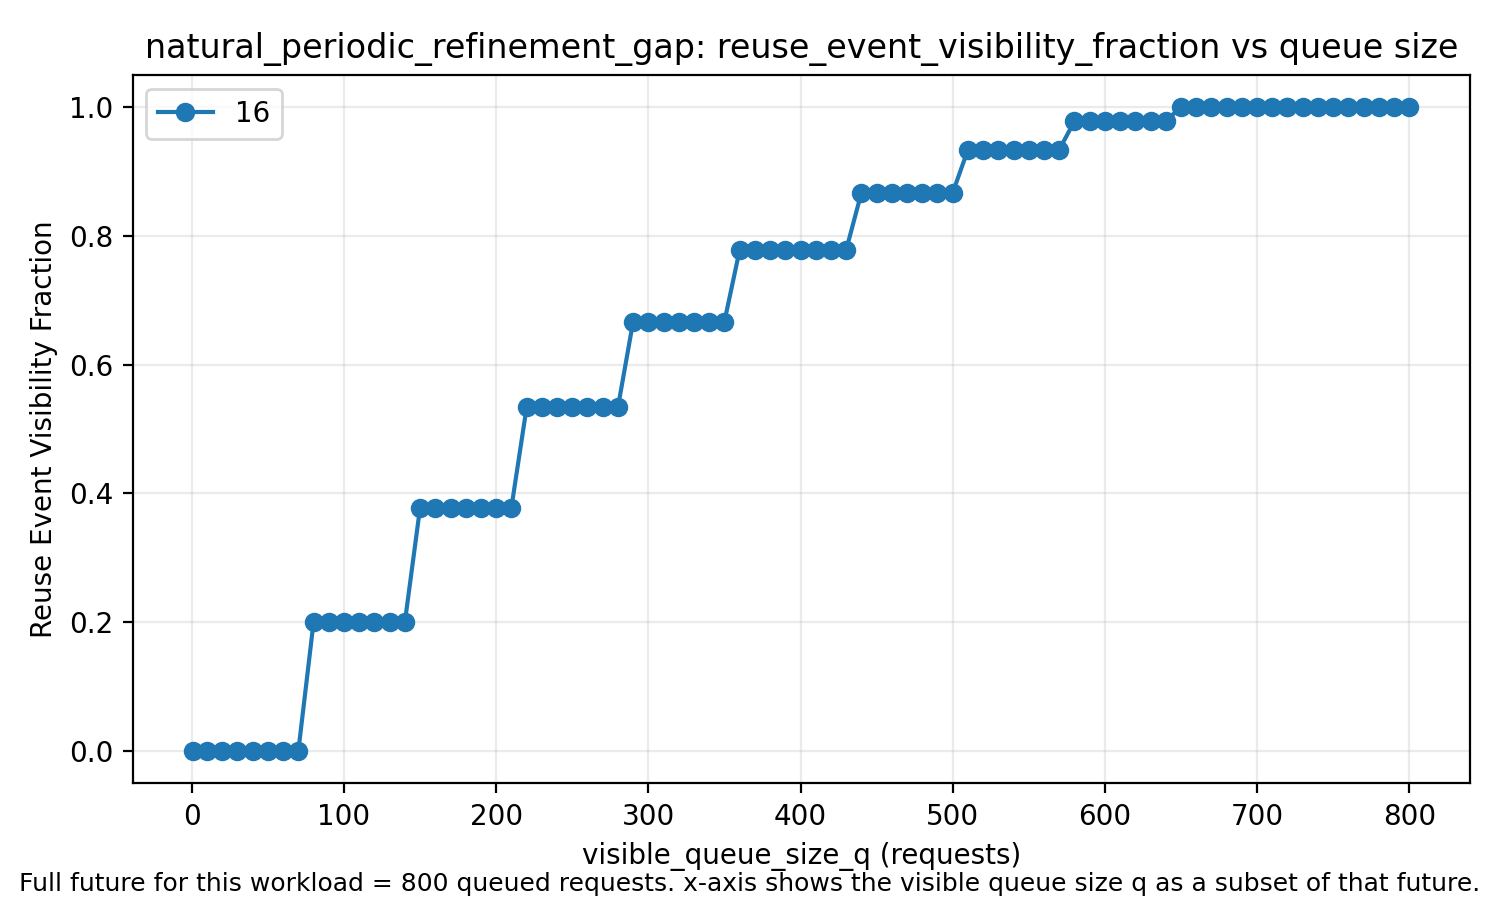
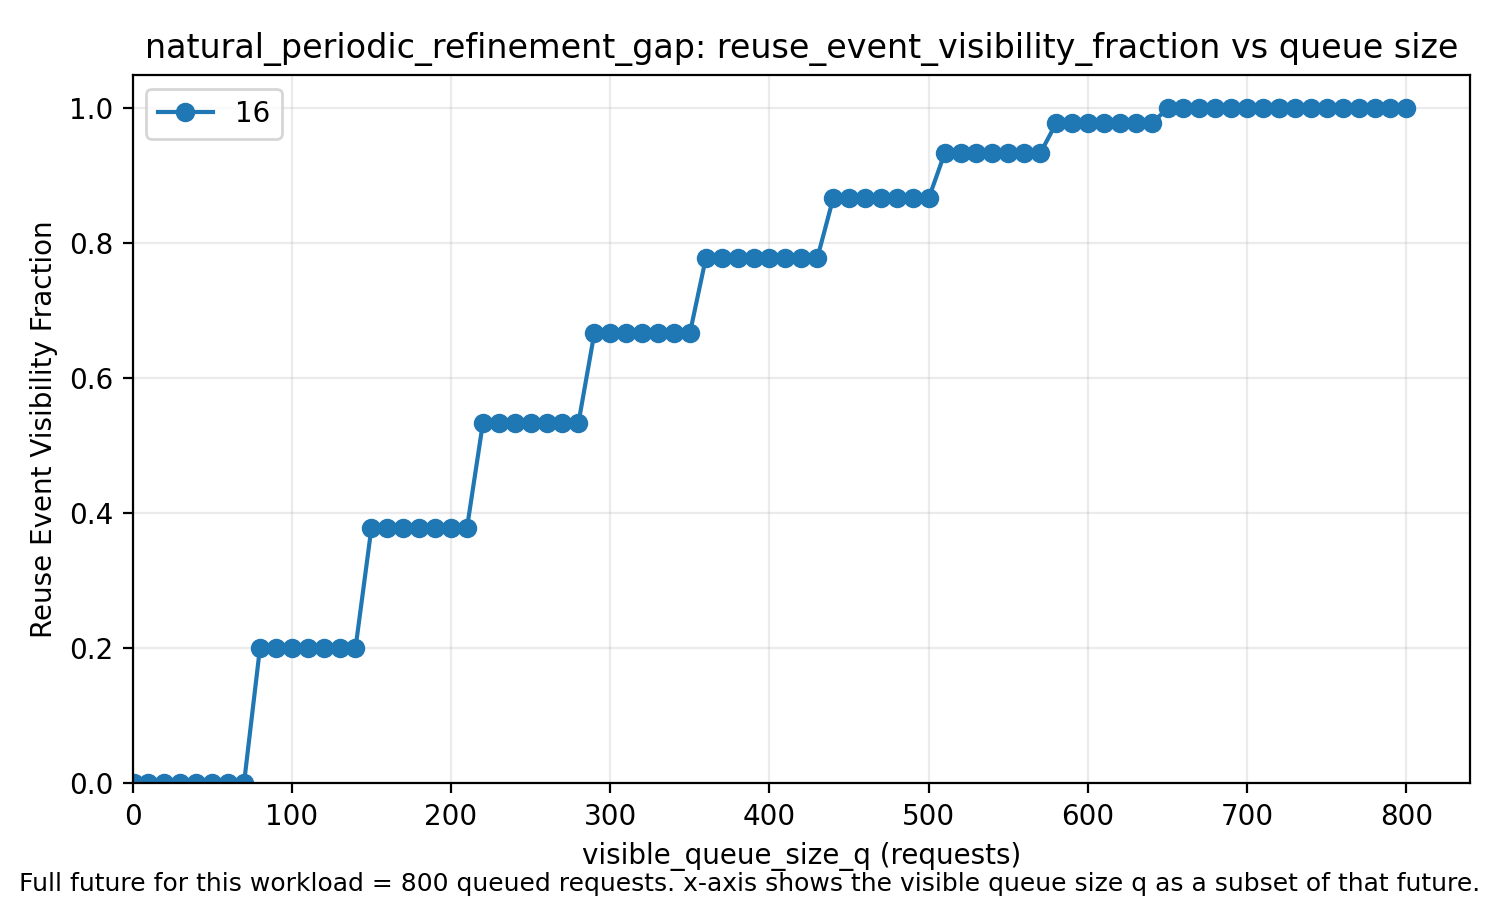
Update study specs and zero-base plots

diff --git a/benchmarking/analysis_scripts/headroom_plot_common.py b/benchmarking/analysis_scripts/headroom_plot_common.py
@@ -80,6 +80,8 @@ def plot_lines(
     plt.ylabel(ylabel)
     plt.grid(alpha=0.25)
     plt.legend()
+    plt.xlim(left=0)
+    plt.ylim(bottom=0)
     if note_text:
         plt.figtext(0.5, 0.01, note_text, ha="center", fontsize=9)
     plt.tight_layout()
@@ -129,6 +131,7 @@ def plot_grouped_bars(
     plt.ylabel(ylabel)
     plt.grid(axis="y", alpha=0.25)
     plt.legend()
+    plt.ylim(bottom=0)
     plt.tight_layout()
     plt.savefig(output_path, dpi=200)
     plt.close()

diff --git a/studies/specs/queue_information_visibility/EXPERIMENT.md b/studies/specs/queue_information_visibility/EXPERIMENT.md
@@ -22,6 +22,17 @@ That makes it a clean headroom study for future directions such as:
 - queue-aware admission / retention
 - queue-aware scheduling
 
+## Current Canonical Result Bundle
+
+The current synced full run for this study is:
+
+- [queue_information_visibility_full_current](/Users/tejguntuku/TEJ/CS_Independent_Research/kv_cache_research/studies/results/queue_information_visibility_full_current)
+
+Key result tables:
+
+- [visibility_metrics.csv](/Users/tejguntuku/TEJ/CS_Independent_Research/kv_cache_research/studies/results/queue_information_visibility_full_current/metrics/visibility_metrics.csv)
+- [threshold_summary.csv](/Users/tejguntuku/TEJ/CS_Independent_Research/kv_cache_research/studies/results/queue_information_visibility_full_current/metrics/threshold_summary.csv)
+
 ## Core Idea
 
 At request position `i`, define the visible queue as:
@@ -63,6 +74,17 @@ Why:
 - they already produce very different reuse structures
 - they are already familiar from the earlier residency / eviction studies
 - they let us see whether queue visibility is workload-dependent
+
+Workload interpretation:
+
+- `natural_tenant_rotation_gap` creates reuse that is clustered by tenant-style families, with sizable gaps before the same family reappears
+- `natural_periodic_refinement_gap` creates periodic revisits to a shared evolving prompt, so the queue may reveal different reuse structure than tenant rotation
+- both are fixed-order request streams, which makes the queue horizon `Q` well-defined and easy to interpret
+
+For the current full run:
+
+- `natural_tenant_rotation_gap` full future = `640` requests
+- `natural_periodic_refinement_gap` full future = `720` requests
 
 This experiment is offline and trace-like, so we do not need to involve a live serving loop in the first implementation.
 

diff --git a/studies/specs/effective_residency_sweep/EXPERIMENT.md b/studies/specs/effective_residency_sweep/EXPERIMENT.md
@@ -15,6 +15,17 @@ This is the clean headroom study for:
 
 The study is **not** about DRAM offload. DRAM recovery is a separate question handled by the recomputation study.
 
+## Current Canonical Result Bundle
+
+The current synced full run for this study is:
+
+- [headroom_effective_residency_full_current](/Users/tejguntuku/TEJ/CS_Independent_Research/kv_cache_research/studies/results/headroom_effective_residency_full_current)
+
+Key result tables:
+
+- [aggregated_metrics.csv](/Users/tejguntuku/TEJ/CS_Independent_Research/kv_cache_research/studies/results/headroom_effective_residency_full_current/metrics/aggregated_metrics.csv)
+- [lru_headroom.csv](/Users/tejguntuku/TEJ/CS_Independent_Research/kv_cache_research/studies/results/headroom_effective_residency_full_current/metrics/lru_headroom.csv)
+
 ## Why This Workload
 
 Earlier runs on:
@@ -39,6 +50,17 @@ Why this workload is appropriate:
 - hot families recur many times
 - there is no second reusable working set that keeps growing over time
 - therefore, once the reusable HBM slice is large enough to hold that hotset, the run is guaranteed to approach the compulsory-miss floor
+
+Workload structure:
+
+- each request belongs to one of a small number of reusable hot families
+- requests within a family share a long common prefix that spans many KV blocks
+- families recur for many rounds, so the same reusable prefix blocks are demanded repeatedly
+- there are also non-reusable tails, which ensure the study still includes real miss pressure rather than trivial perfect reuse
+
+This means the workload is intentionally constructed to answer one narrow question:
+
+- if the reusable hotset fits in the KV cache region, how much user-facing gain do we get as `LRU` approaches the compulsory floor?
 
 The manifest for this workload is:
 

diff --git a/studies/specs/recomputation_microbenchmark/EXPERIMENT.md b/studies/specs/recomputation_microbenchmark/EXPERIMENT.md
@@ -27,6 +27,17 @@ The main output is the crossover region:
 
 This tells us when a DRAM KV tier is worth using instead of rebuilding missing blocks on GPU.
 
+## Current Canonical Result Bundle
+
+The current synced full run for this study is:
+
+- [recomputation_microbenchmark_ssd_full__20260521](/Users/tejguntuku/TEJ/CS_Independent_Research/kv_cache_research/studies/results/recomputation_microbenchmark_ssd_full__20260521)
+
+Key result tables:
+
+- [recovery_times.csv](/Users/tejguntuku/TEJ/CS_Independent_Research/kv_cache_research/studies/results/recomputation_microbenchmark_ssd_full__20260521/metrics/recovery_times.csv)
+- [crossover_points.json](/Users/tejguntuku/TEJ/CS_Independent_Research/kv_cache_research/studies/results/recomputation_microbenchmark_ssd_full__20260521/metrics/crossover_points.json)
+
 ## Why The Synthetic Proxy Was Not Enough
 
 The earlier synthetic tensor microbenchmark was useful as a pipeline smoke test, but not as the canonical experiment.
@@ -107,6 +118,15 @@ That is:
 
 - the content can be cooked up
 - but the recovery path must go through real LLM serving, not a fake tensor kernel
+
+Current workload interpretation:
+
+- the independent variable is the reusable-prefix length, expressed as `k` KV blocks
+- each prompt is a synthetic long-prefix request whose prefix length is exactly `k * 16` tokens
+- the suffix and output shape are held fixed so only the recovery mode changes
+- the model is real, the KV objects are real, and the restore/recompute path goes through the real model stack
+
+So this is a synthetic prompt family, but not a synthetic compute proxy.
 
 ## Independent Variable
 
